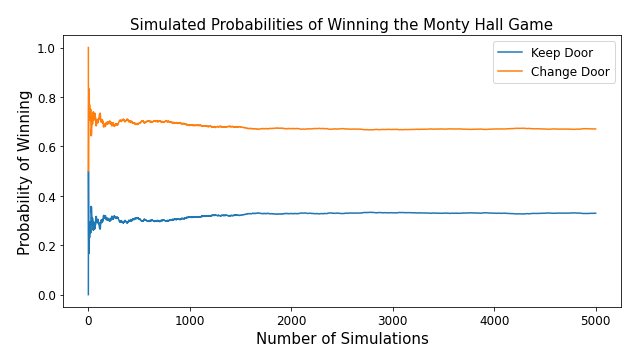
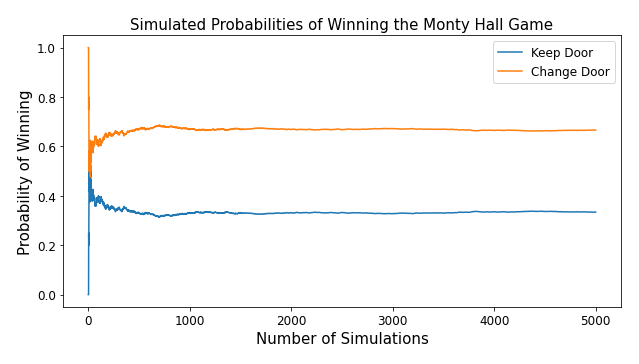
added nb link, refactoring

Changed region(s): [[0.1189, 0.3022, 0.9515, 0.6648], [0.1189, 0.6951, 0.1487, 0.7857], [0.1189, 0.1511, 0.1487, 0.2418]]

diff --git a/README.md b/README.md
@@ -7,6 +7,9 @@ Author: Jeffrey Hanif Watson
 
 Win probabilites for the two strategies of the Monty Hall game. Read on to find the optimal strategy.
 
+### Quick Link
+[Notebook](./notebook/monty_hall.ipynb)
+
 ## Introduction
 Recently, I was asked to code a simulation of the Monty Hall game during a lesson on Bayesian statistics. I found it amusing that I was required to use a frequentist approach to probability for insight into what was explained as a Bayesian problem. I decided to Investigate further and come up with my own Bayesian understanding of what was going on.
 For those unfamiliar with this famous mental puzzle, allow me to lay out the rules and key assumptions of the game. The Monty Hall problem is named after the host of the Let’s Make A Deal game show and follows similar rules to that game. A contestant is presented with identical three doors, two of which contain goats, and one of which contains a car. The contestant is then asked to announce which door they chose, and one of the other doors is opened. Its contents are revealed to the player, and the host then asks the player if they would like to switch their choice of doors before the car is revealed. Whichever choice the player makes at this point, they win if the car is behind the door they chose. You should take a moment to think about what you would do in this situation, and take note of it. You may be surprised, or have some of your assumptions challenged, by the end of the article.
@@ -123,11 +126,12 @@ Lastly, we calculate the relative frequencies of the wins, for both keep and cha
 ## Results
 Running the code for 5000 games reveals the following:
 ![graph1](./figures/odds.png)
+
 Change door for the win!!!
 ```
     Simulated Probabilities:
-    Probability of Winning if Door is Kept:        0.34
-    Probability of Winning if Door is Changed:     0.66
+    Probability of Winning if Door is Kept:        0.33
+    Probability of Winning if Door is Changed:     0.67
 ```
 We can see from the visualization that the relative frequencies level out to a limiting value fairly quickly (at around 1000 games) and remain steady. These are the probabilities for the keep and change strategies. 
 
